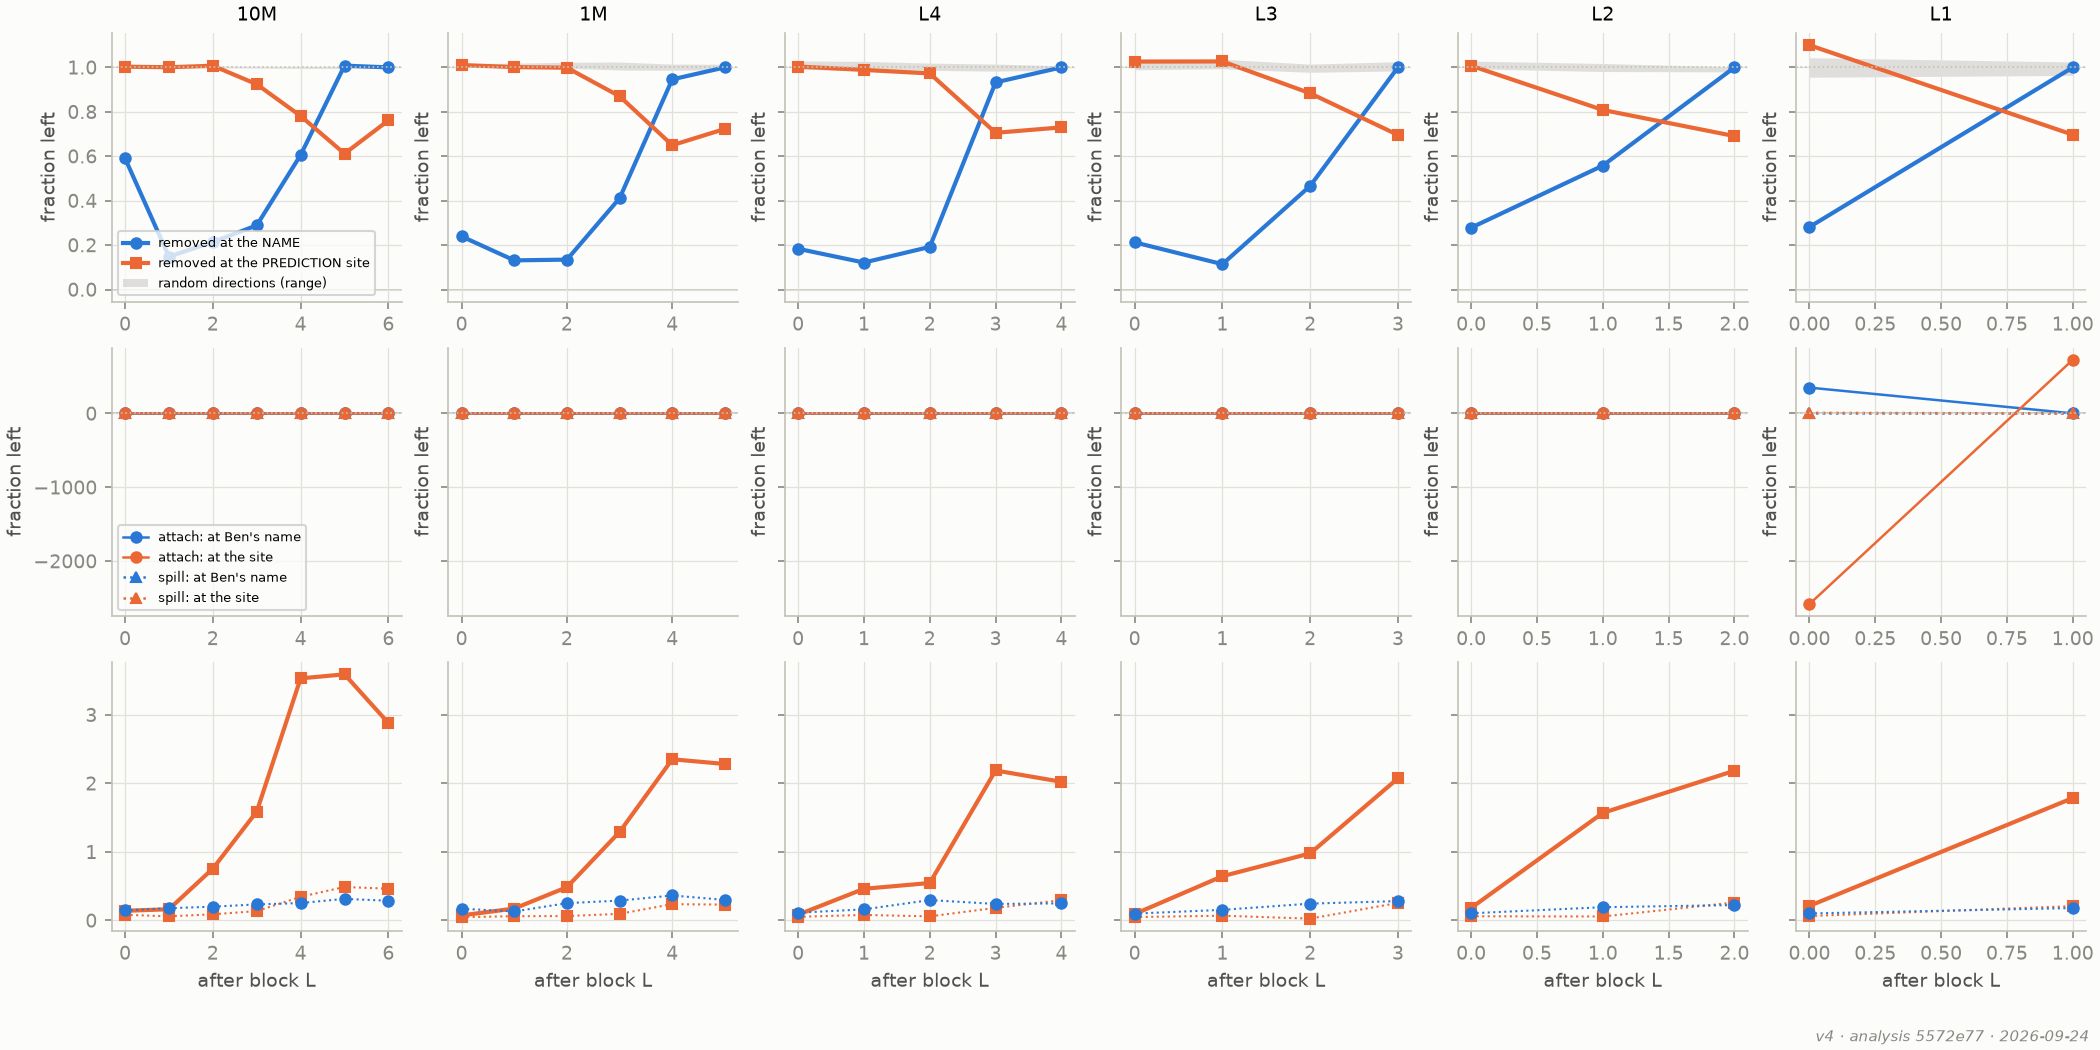
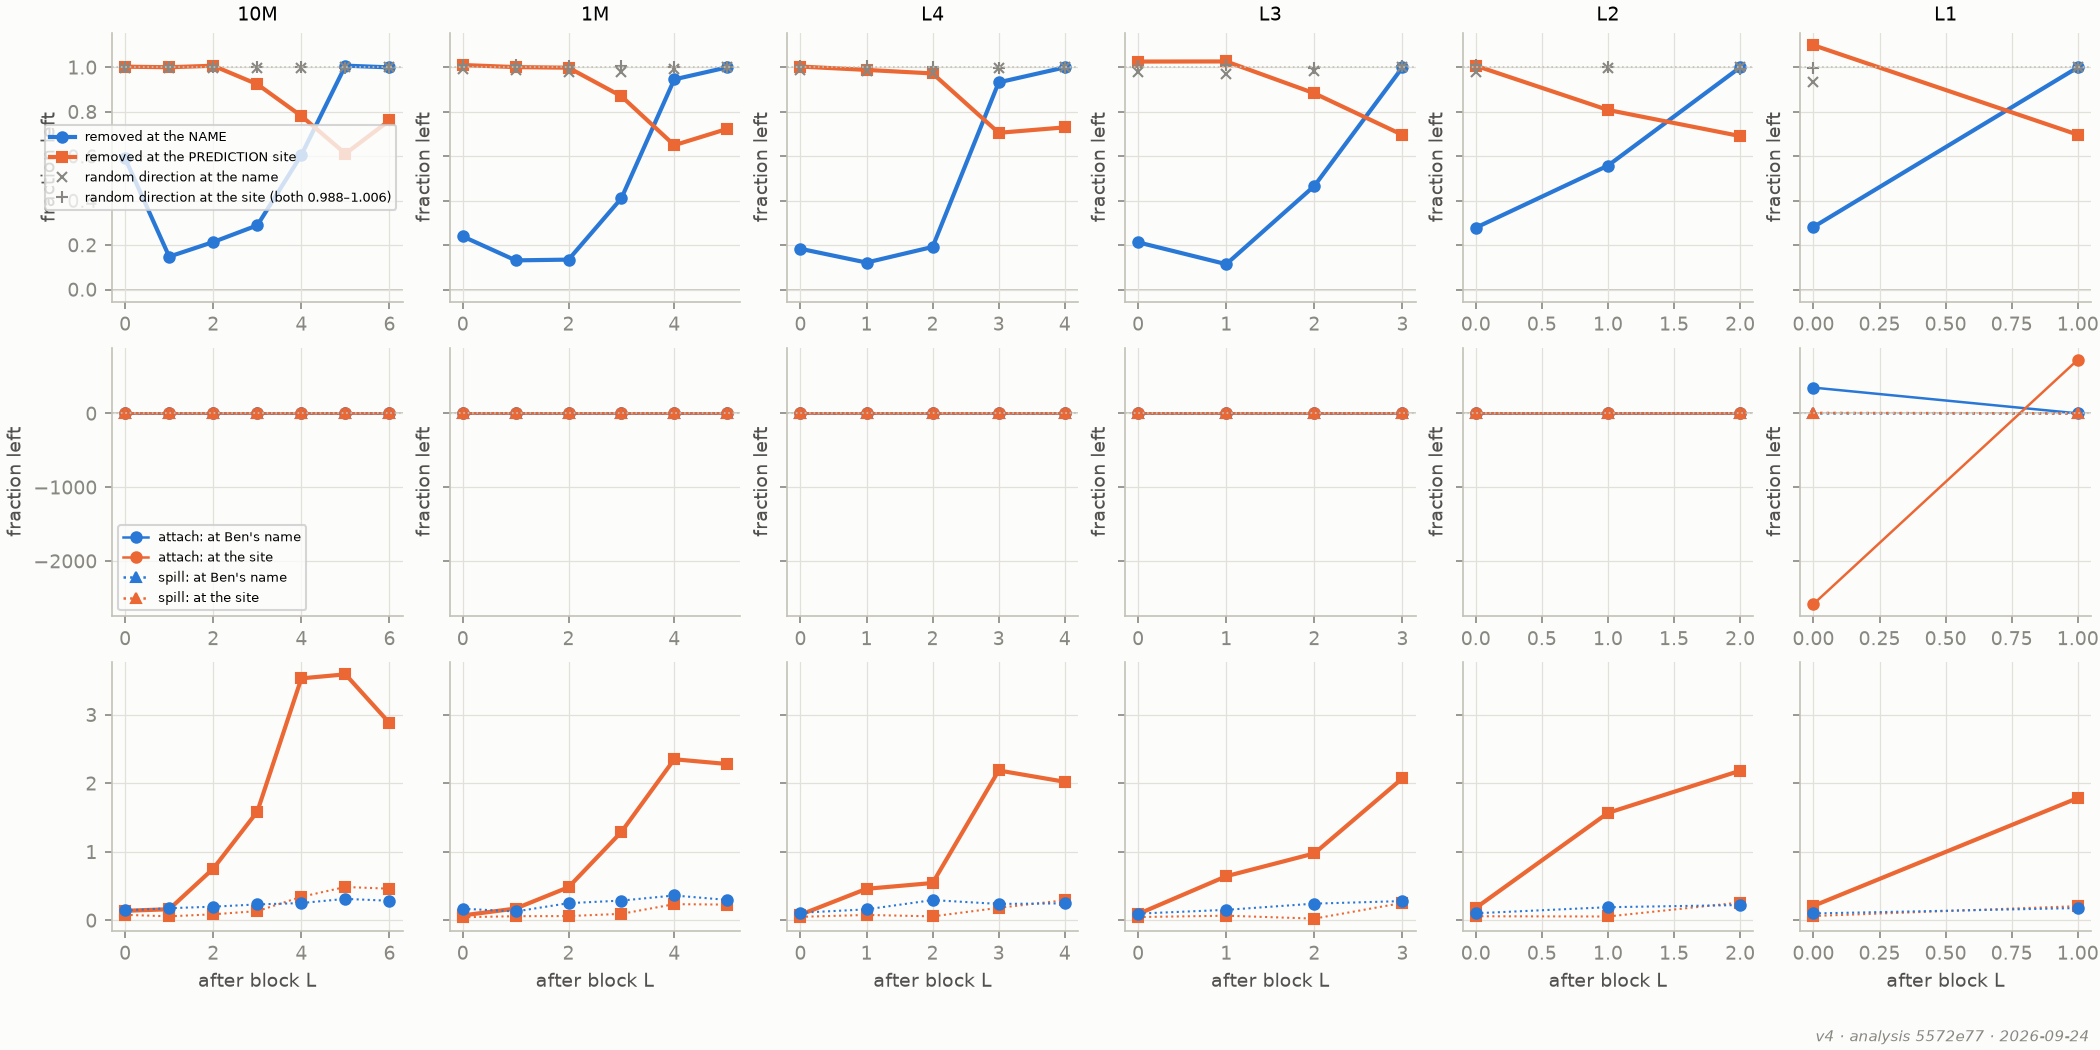
Figures 5a / A5: the random-direction control drawn as markers (at the name and at the site, 0.997–1.003), its band having been invisible under the line at 1.

diff --git a/scripts/plan_figures.py b/scripts/plan_figures.py
@@ -1238,7 +1238,13 @@ def draw_flow(axes, c, act="steal"):
     L = np.arange(len(c["base_name"]))
     axes[0].plot(L, c["base_name"], "o-", color=TWO[0], label="removed at the NAME")
     axes[0].plot(L, c["base_site"], "s-", color=TWO[1], label="removed at the PREDICTION site")
-    axes[0].fill_between(L, c["base_rand_site_lo"], c["base_rand_site_hi"], color=MUTED, alpha=0.25, lw=0, label="random directions (range)")
+    # the control: a random direction removed instead (three per position); its band is ~0.006 wide
+    # at 1.0, invisible as a band, so drawn as markers with the range in the legend
+    lo = min(min(c["base_rand_site_lo"]), min(c.get("base_rand_name_lo", [1])))
+    hi = max(max(c["base_rand_site_hi"]), max(c.get("base_rand_name_hi", [1])))
+    if "base_rand_name" in c:
+        axes[0].plot(L, c["base_rand_name"], "x", color=MUTED, ms=5, label="random direction at the name")
+    axes[0].plot(L, c["base_rand_site"], "+", color=MUTED, ms=6, label=f"random direction at the site (both {lo:.3f}–{hi:.3f})")
     if f"{act}_attach_name" in c:
         for part, ls, mk in (("attach", "-", "o"), ("spill", ":", "^")):
             axes[1].plot(L, c[f"{act}_{part}_name"], marker=mk, ls=ls, color=TWO[0], lw=1.2, label=f"{part}: at Ben's name")
